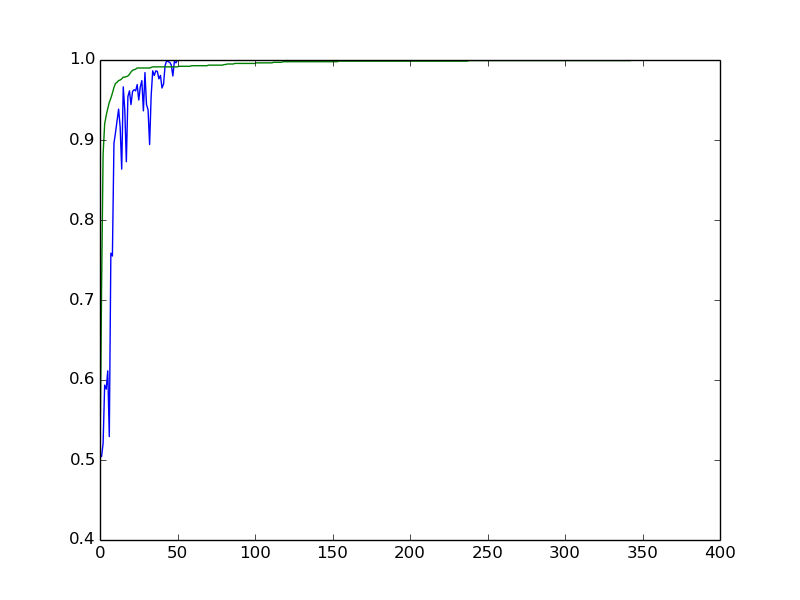
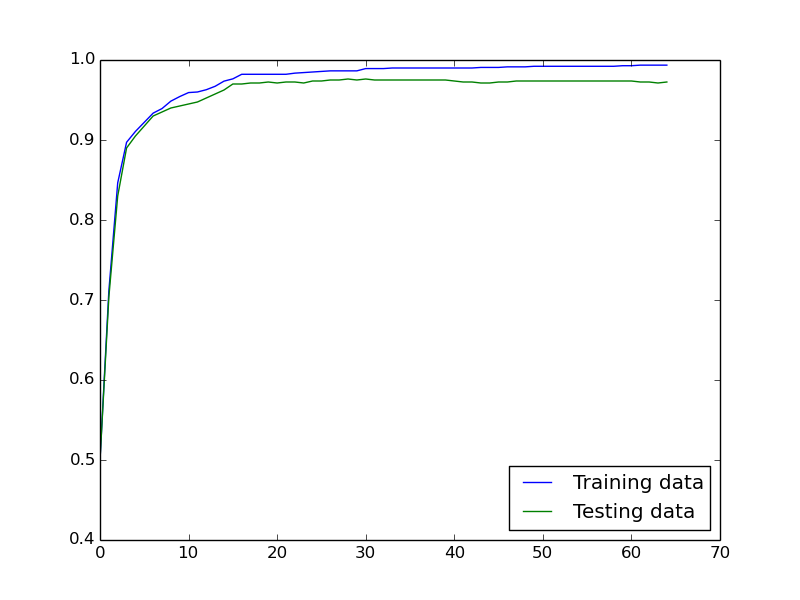
Add part 2 and 3 for problem 2

diff --git a/Assn1/prob2.py b/Assn1/prob2.py
@@ -2,7 +2,7 @@
 # @Date:   2018-04-12T17:23:28-07:00
 # @Filename: prob2.py
 # @Last modified by:   Arthur Shing
-# @Last modified time: 2018-04-16T03:57:03-07:00
+# @Last modified time: 2018-04-16T19:06:16-07:00
 import matplotlib
 matplotlib.use('Agg')
 
@@ -27,6 +27,9 @@ def loadData(fileName):
 
 def sigmoidFunct(w, x):
     y = 1/(1 + np.exp(-np.dot(w.T, x)))
+
+    # y = np.add(y, regularizator)
+
     return y
 
 
@@ -40,7 +43,8 @@ def sigmoidFunct(w, x):
 # w = the coefficients for the sigmoid function
 # acc = array of the accuracy of each iteration on the training dataset
 # accTest = array of the accuracy of each iteration on the test dataset
-def trainBatch(data, learnRate, epoch, zeros, label, xTest, lTest):
+# l = lambda
+def trainBatch(data, learnRate, epoch, zeros, label, xTest, lTest, l):
     w = zeros
     acc = np.zeros((epoch,), dtype=float)
     accTest = np.zeros((epoch,), dtype=float)
@@ -49,10 +53,13 @@ def trainBatch(data, learnRate, epoch, zeros, label, xTest, lTest):
         nabla = w
         for row in range(len(data)):
             y = sigmoidFunct(w, data[row].reshape(256,1))
+            regularizator = (0.5 * np.dot(w.T, w) * l)
+
             error = label[row] - y
             sumError += error**2
             odds = y * (1-y)
-            learnError = error * learnRate * odds
+            regError = error + regularizator
+            learnError = regError * learnRate * odds
 
             nabla = np.add(nabla, np.multiply(learnError, data[row].reshape(256,1))) # this took me 5ever
 
@@ -87,17 +94,44 @@ def problem1():
     # Iterations
     epoch = 65
 
+    la = 100
+
     # Accuracy = array of % correctly predicted in each iteration
-    (coefB, accuracyB, accuracyTestB) = trainBatch(x, learn, epoch, w, l, xTest, lTest)
+    (coefB, accuracyB, accuracyTestB) = trainBatch(x, learn, epoch, w, l, xTest, lTest, la)
 
     # TODO:: Add legend and labels
-    plot(range(epoch), accuracyB, "acctrain.png")
-    plot(range(epoch), accuracyTestB, "acctrain.png")
+    plot(range(epoch), accuracyB, "acctrain.png", "Training data")
+    plot(range(epoch), accuracyTestB, "acctrain.png", "Testing data")
+
+
+    # Part 3
+    (coefB, accuracyB, accuracyTestB) = trainBatch(x, learn, epoch, w, l, xTest, lTest, 0.1)
+    plot(range(epoch), accuracyB, "acctrain2.png", "Training data lambda=0.1")
+    plot(range(epoch), accuracyTestB, "acctrain2.png", "Testing data lambda=0.1")
+    (coefB, accuracyB, accuracyTestB) = trainBatch(x, learn, epoch, w, l, xTest, lTest, 1)
+    plot(range(epoch), accuracyB, "acctrain2.png", "Training data lambda=1")
+    plot(range(epoch), accuracyTestB, "acctrain2.png", "Testing data lambda=1")
+    (coefB, accuracyB, accuracyTestB) = trainBatch(x, learn, epoch, w, l, xTest, lTest, 10)
+    plot(range(epoch), accuracyB, "acctrain2.png", "Training data lambda=10")
+    plot(range(epoch), accuracyTestB, "acctrain2.png", "Testing data lambda=10")
+    (coefB, accuracyB, accuracyTestB) = trainBatch(x, learn, epoch, w, l, xTest, lTest, 100)
+    plot(range(epoch), accuracyB, "acctrain2.png", "Training data lambda=100")
+    plot(range(epoch), accuracyTestB, "acctrain2.png", "Testing data lambda=100")
+    (coefB, accuracyB, accuracyTestB) = trainBatch(x, learn, epoch, w, l, xTest, lTest, 1000)
+    plot(range(epoch), accuracyB, "acctrain2.png", "Training data lambda=1000")
+    plot(range(epoch), accuracyTestB, "acctrain2.png", "Testing data lambda=1000")
+    (coefB, accuracyB, accuracyTestB) = trainBatch(x, learn, epoch, w, l, xTest, lTest, 10000)
+    plot(range(epoch), accuracyB, "acctrain2.png", "Training data lambda=10000")
+    plot(range(epoch), accuracyTestB, "acctrain2.png", "Testing data lambda=10000")
+
+
+
     return
 
 # Plots into a png file
-def plot(x, y, fileName):
-    plt.plot(x, y)
+def plot(x, y, fileName, labelName):
+    plt.plot(x, y, label=labelName)
+    plt.legend(loc=4)
     plt.savefig(fileName)
     return
 
